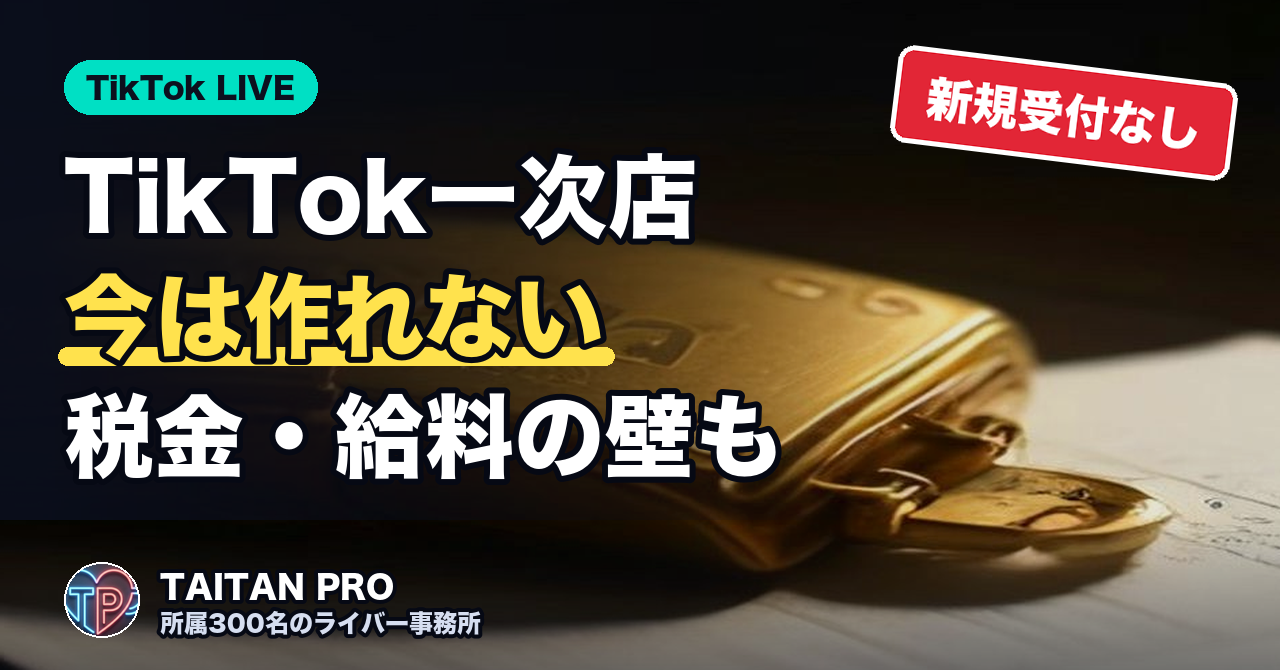
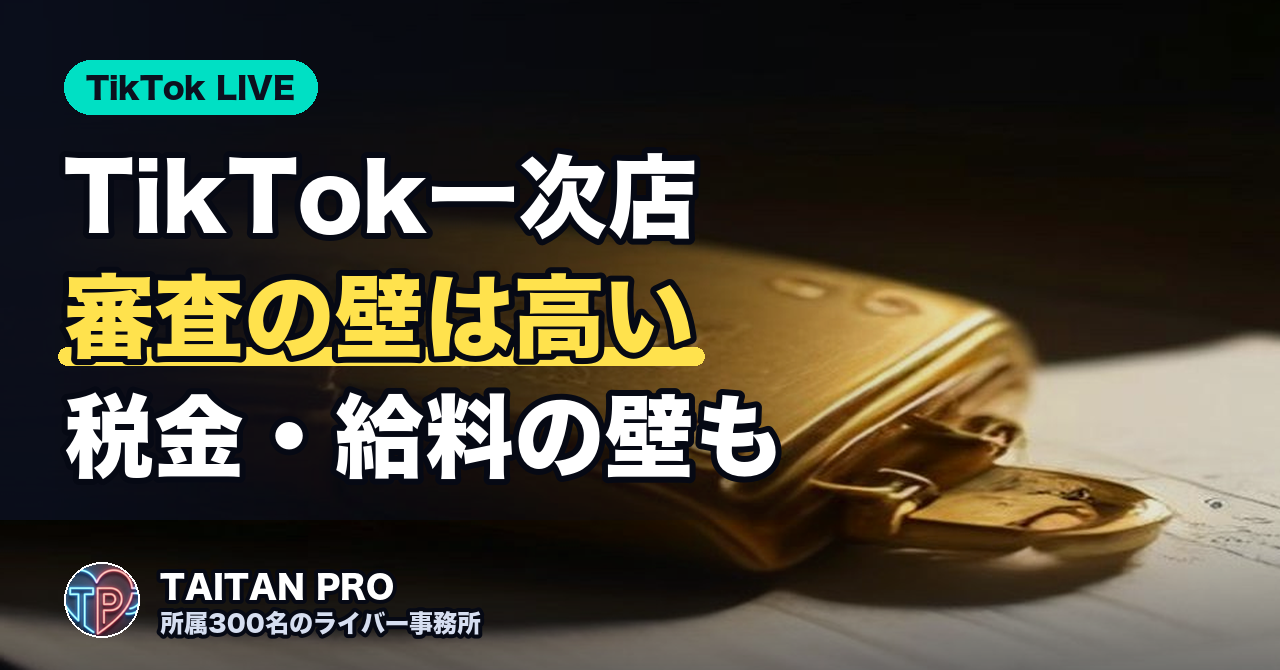
Note #248: TikTokの「新規受付なし」断定を撤回し、公式情報に沿って審査の厳しさへ修正
公開情報で受付停止を確認できず、公式の募集発表とフォームが確認できたため。
タイトル・本文・FAQ・カバーを修正し、判子を外した。

Changed region(s): [[0.0312, 0.3881, 0.5625, 0.5672], [0.6875, 0.0597, 0.9688, 0.2687]]

diff --git a/blog/articles_note/248_ライバー事務所の一次店設立はなぜ厳しいTikTokの新規受付と税金給料支払いの壁.md b/blog/articles_note/248_ライバー事務所の一次店設立はなぜ厳しいTikTokの新規受付と税金給料支払いの壁.md
@@ -1,10 +1,10 @@
-# ライバー事務所の一次店設立はなぜ厳しい？｜TikTokが新規を受け付けていない今、税金・給料支払いの壁と現実的な始め方【2026年版】
+# ライバー事務所の一次店設立はなぜ厳しい？｜TikTokの審査の壁、税金・給料支払いの現実と始め方【2026年版】
 
 「TikTok LIVEの一次店を作りたい。どこから申し込めばいいのか」
 
 ライバー事務所を始めようとしている方から、こうした相談を受けることがあります。一次店になれば、間に誰も入らず、自分の事務所として動ける。そう考えるのは自然なことです。
 
-ただ、先に結論を書きます。**ライバー事務所の一次店設立は、今から始める人にはかなり厳しい道です。** TikTok LIVEについては、2026年11月時点で私たちが把握している限り、**新しい一次店を受け付けていません。** そして受付が再開されたとしても、その先には税金と給料（報酬）の支払いという、地味で重い仕事が待っています。
+ただ、先に結論を書きます。**ライバー事務所の一次店設立は、今から始める人にはかなり厳しい道です。** TikTok LIVEには公式のエントリーフォームがありますが、**審査があり、基準も落ちた理由も公開されていません。** そして審査を通ったとしても、その先には税金と給料（報酬）の支払いという、地味で重い仕事が待っています。
 
 ライバー事務所TAITAN PRO代表のたいたん（元Pococha Sランク）です。この記事では、ライバーへの報酬の計算と振込を日々行っている事務所の立場から、**一次店の設立が厳しい理由と、これから始める人が取れる現実的な選択肢**を整理します。
 
@@ -17,12 +17,12 @@
 ライバー事務所の一次店設立が厳しい理由は、**入口が狭いことと、入ったあとの責任が重いこと**の2つです。
 
 - 一次店とは、配信アプリの運営会社と**直接契約する事務所**を指す業界の通称
-- TikTok LIVEは、私たちが把握している限り**現在、新しい一次店を受け付けていない**
+- TikTok LIVEの申し込み窓口は公式にあるが、**法人であることが条件で、審査の基準は非公開**
 - 一次店になると、**消費税・インボイス・源泉徴収などの税務**を自分たちで判断する必要がある
 - ライバーへの**給料（報酬）の計算と支払い**は、人数が増えるほど重くなり、遅れれば信用を失う
 - 今から始めるなら、**既存の事務所の枠組みで実務を経験する**のが現実的
 
-※この記事は2026年11月時点の情報です。受付状況は変わることがあるので、最新はTikTok公式の案内で確認してください。税金の判断は契約内容で変わるため、個別のケースは税理士に相談してください。
+※この記事は2026年11月時点の情報です。募集の条件は変わることがあるので、最新はTikTok公式の案内で確認してください。税金の判断は契約内容で変わるため、個別のケースは税理士に相談してください。
 
 ---
 
@@ -44,15 +44,28 @@
 
 ---
 
-## 理由1：TikTok LIVEが新しい一次店を受け付けていない
+## 理由1：TikTok LIVEの審査を通るのが難しい
 
-TikTok LIVEの一次店になろうとしても、2026年11月時点で私たちが把握している限り、**新規の受付がありません。** どれだけ準備を整えても、申し込む先がないということです。
+TikTok LIVEの提携制度は「TikTok LIVE Creator Network」（通称エージェンシー制度）といいます。業界で「一次店」と呼ばれる直接契約は、この制度での提携を指すのが一般的です。
 
-### なぜ受け付けていないのか
+申し込む窓口そのものは、公式に案内されています。[2024年の公式発表](https://newsroom.tiktok.com/tiktok-live-creator-network?lang=ja-JP)ではエントリーフォームを案内していて、[2025年11月の公式発表](https://newsroom.tiktok.com/tiktok-live-music?lang=ja-JP)でも音楽分野の提携エージェンシーを募集しています。受付を終了したという公式発表は、2026年11月時点で確認できていません。
 
-受付をしていない理由について、公式の発表として確認できたものはありません。なので、ここから先は**事務所を運営している私の見方**として読んでください。
+### 公式フォームに書かれている条件
 
-一次店は、ただの申し込み先ではありません。多くのライバーの報酬が通る場所であり、税金の処理を担い、所属ライバーにルールを守ってもらう役割も持ちます。一度任せた相手がうまく回らなければ、**困るのは現場のライバーです。** そう考えると、窓口を簡単に増やせる役割ではない、というのは自然なことだと思います。
+難しいのは、そのあとです。2026年11月時点で公開されている公式フォーム（2024年版の表記）には、次のように書かれています。
+
+- 日本国内で登記された**株式会社または合同会社**であること
+- 個人事業主と、すでにTikTok LIVEで活動しているクリエイターは審査の対象外
+- 独自の基準で審査するため、条件を満たしていても落ちることがあり、**理由は公開されない**
+- エージェンシー向けの支払いは**米ドル**で、外貨を受け取れる口座の有無を聞かれる
+
+未経験（新規事業）も歓迎とされていますが、他の配信アプリでのエージェンシー経験や、毎月どれくらい新しいクリエイターを連れてこられるかも質問項目に入っています。なお、2025年の音楽分野の発表には「小規模法人・個人事業主も参加歓迎」とあり、分野や時期によって案内が異なります。申し込む前に、最新の条件を必ず確認してください。
+
+### なぜ狭き門になるのか
+
+審査の基準は公開されていません。なので、ここから先は**事務所を運営している私の見方**として読んでください。
+
+一次店は、ただの申し込み先ではありません。多くのライバーの報酬に関わり、税金の処理を担い、所属ライバーにルールを守ってもらう役割も持ちます。一度任せた相手がうまく回らなければ、**困るのは現場のライバーです。** そう考えると、窓口はあっても簡単には増やせない役割だと思います。実績のない事務所が今から直接契約を目指すのは、かなり狭き門だというのが私の実感です。
 
 ### 「審査なしで事務所を設立」という案内を見たら
 
@@ -70,7 +83,7 @@ TikTok LIVEの一次店になろうとしても、2026年11月時点で私たち
 
 ## 理由2：税金の判断を自分たちで背負う
 
-受付の問題がなかったとしても、次の壁が税金です。一次店は多くのライバーの報酬を扱うので、**個人の確定申告とは別の難しさ**があります。
+審査を通ったとしても、次の壁が税金です。一次店は多くのライバーの報酬を扱うので、**個人の確定申告とは別の難しさ**があります。
 
 ### 消費税は「売上」で判定される
 
@@ -159,7 +172,7 @@ TikTok LIVEの一次店になろうとしても、2026年11月時点で私たち
 
 ### 3. 一次店を目指すなら、体制を先に作る
 
-将来的に一次店を目指すなら、受付の再開を待つ間に準備できることがあります。**法人としての体制、税理士との関係、報酬の計算と支払いの仕組み**です。どれも一次店でなくても役に立ちます。アプリごとに条件は異なるので、目指すアプリの最新の案内を確認してください。
+将来的に一次店を目指すなら、申し込む前に準備できることがあります。**法人としての体制、税理士との関係、報酬の計算と支払いの仕組み**です。どれも一次店でなくても役に立ちます。アプリごとに条件は異なるので、目指すアプリの最新の案内を確認してください。
 
 ---
 
@@ -171,7 +184,7 @@ TikTok LIVEの一次店になろうとしても、2026年11月時点で私たち
 
 ### TikTok LIVEの一次店には今から申し込めますか？
 
-2026年11月時点で私たちが把握している限り、**新しい一次店は受け付けていません。** 状況は変わることがあるので、最新はTikTok公式の案内で確認してください。
+公式のエントリーフォームがあり、受付終了の公式発表は2026年11月時点で確認できていません。ただし**審査があり、基準も落ちた理由も公開されていません。** フォームでは日本で登記した株式会社・合同会社であることが条件です。実際に受け付けられるかどうかを含め、最新はTikTok公式の案内で確認してください。
 
 ### 一次店の設立が厳しいのはなぜですか？
 
@@ -183,7 +196,7 @@ TikTok LIVEの一次店になろうとしても、2026年11月時点で私たち
 
 ### 個人でも一次店になれますか？
 
-直接契約の事務所には、法人としての体制が求められます。個人で今から事務所の仕事を始めるなら、**既存の事務所の代理店として実務を経験する**ほうが現実的です。
+TikTok LIVEの公式フォームでは、個人事業主は審査の対象外とされています。2025年の音楽分野の発表には個人事業主も歓迎とあるので、対象は申し込む前に確認してください。個人で今から事務所の仕事を始めるなら、**既存の事務所の代理店として実務を経験する**ほうが現実的です。
 
 ---
 
